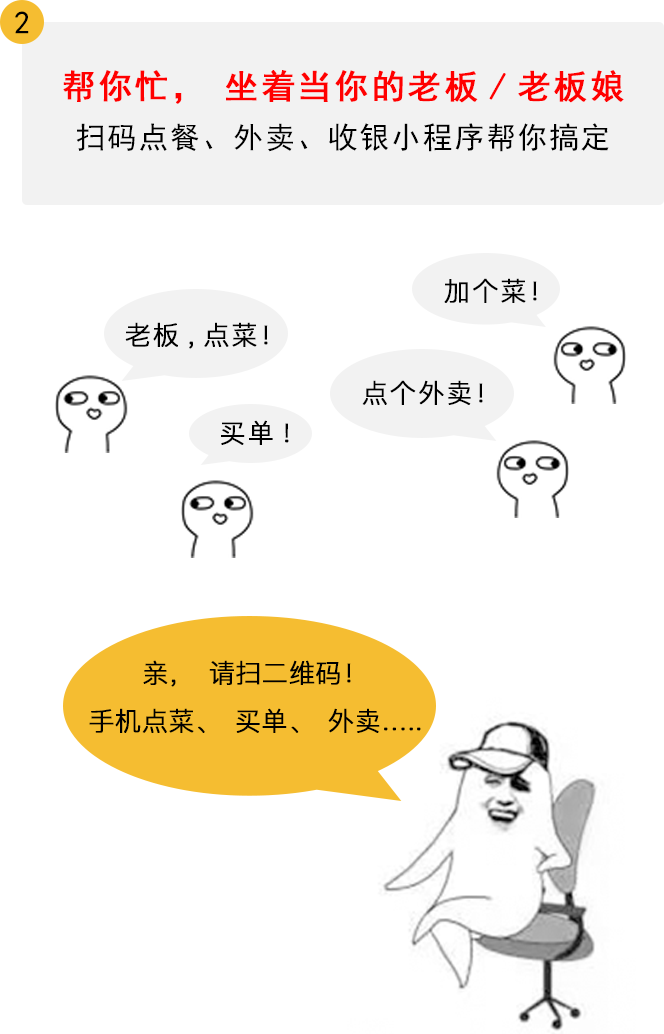
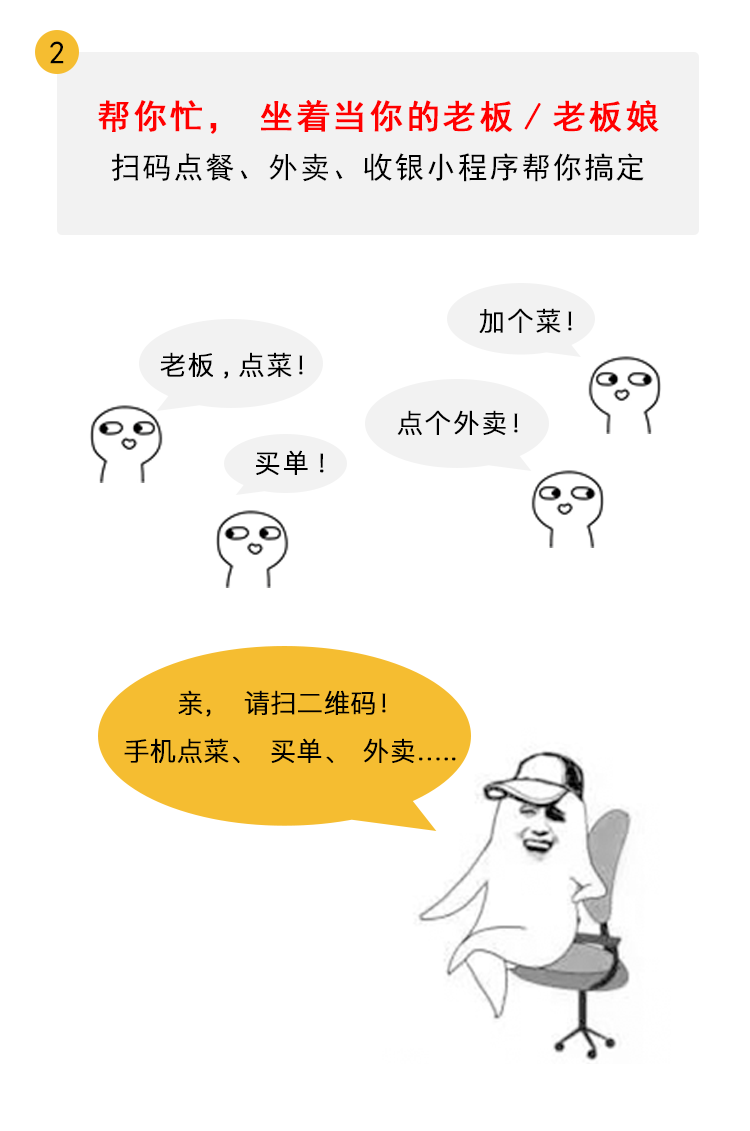
Signed-off-by: WIN-10\Administrator <350121276@qq.com>

diff --git a/index.html b/index.html
@@ -11,10 +11,13 @@
             max-width: 100%;
             height: 100%;
         }
+        .item{
+            overflow: hidden;
+        }
         .item-1 img{width: 100%;height: 95%;}
-        .item-2 img{width: 100%;height: 95%;}
+        .item-2 img{width: 100%;height: 100%;margin-top: -20px;}
         .item-3 img{width: 96%;height: 90%;padding-top: 15px;padding-left: 5px;}
-        .item-4 img{width: 96%;height: 90%;padding-top: 15px;padding-left: 5px;}
+        .item-4 img{width: 96%;height: 92%;padding-top: 15px;padding-left: 5px;}
         .item-5 img{width: 96%;height: 90%;padding-top: 15px;padding-left: 5px;}
         .item-6 img{width: 96%;height: 90%;padding-top: 10px;padding-left: 5px;}
         .item-7 img{width: 91%;height: 91%;padding-top: 10px;padding-left: 16px;}
@@ -31,6 +34,9 @@
             width: 85%;
             padding-top: 10px;
         }
+      /*  .item img{
+            padding: 0;
+        }*/
         .foot_img img{
             margin-left: 10%!important;
             width: 85%;
@@ -100,66 +106,7 @@
     getInfo();
     //    console.log(document.documentElement.clientHeight ,window.innerHeight, document.body.clientHeight)
     //    document.body.style.height=window.innerHeight-0+'px';
-    window.onload=function() {
-        var oBtn = document.getElementById('btn');
-        var tel = document.getElementById('tel');
-        var names = document.getElementById('myname');
-        var oP = document.getElementsByTagName('p')[0];
-        oBtn.onclick = function () {
-            var val = document.getElementById('tel').value;
-            var my = document.getElementById('myname').value;
-            var flag = /^[0-9a-zA-Z\u4e00-\u9fa5_]{3,16}$/;
-            var reg = /^1[345678]\d{9}$/;
-            console.log(oBtn);
-            console.log(tel.value);
-            console.log(names.value);
-            if (val == '') {
-                oP.style.color = "red";
-                oP.innerHTML = "请输入手机号!";
-            } else if (reg.test(val)) {
-                oP.style.color = "green";
-                oP.innerHTML = "输入正确！";
-            } else {
-                oP.style.color = "red";
-                oP.innerHTML = "号码输入错误，请重新输入！";
-            }
-
-            var e = {
-                'name': names.value,  //姓名
-                'phone': tel.value,  //联系电话
-
-            };
-        }
-    };
-    function loadXMLDoc(e)
-    {
-//        document.getElementById("btn").style.display="none";
-//        document.getElementById("div2").style.display="";
-        var e= e;
-//        e = (function(obj){ var str = ""; for(var prop in obj){ str += prop + "=" + obj[prop] } return str; })(e);
-        var evev=JSON.stringify(e);
-        var xmlhttp;
-        if (window.XMLHttpRequest)
-        {
-            // code for IE7+, Firefox, Chrome, Opera, Safari
-            xmlhttp=new XMLHttpRequest();
-        }
-        else
-        {// code for IE6, IE5
-            xmlhttp=new ActiveXObject("Microsoft.XMLHTTP");
-        }
-        xmlhttp.onreadystatechange=function()
-        {
-            if (xmlhttp.readyState==4 && xmlhttp.status==200)
-            {
-                console.log(xmlhttp);
-                document.getElementById("tel").innerHTML=xmlhttp.responseText;
-            }
-        };
-        xmlhttp.open("POST","https://dev.nihome.cn/cooperation/apply",true);
-        xmlhttp.setRequestHeader("Content-type","application/json");
-        xmlhttp.send(evev);
-    }
+    
 </script>
 <div class="wrap" id="wrap">
 
@@ -259,7 +206,67 @@
         }
     });
     console.info(myslider)
+    // window.onload=function() {
+      
+    // };
+    function loadXMLDoc()
+    {
+        var oBtn = document.getElementById('btn');
+        var tel = document.getElementById('tel');
+        var names = document.getElementById('myname');
+        var oP = document.getElementsByTagName('p')[0];
+        // oBtn.onclick = function () {
+            var val = document.getElementById('tel').value;
+            var my = document.getElementById('myname').value;
+            var flag = /^[0-9a-zA-Z\u4e00-\u9fa5_]{3,16}$/;
+            var reg = /^1[345678]\d{9}$/;
+            console.log(oBtn);
+            console.log(tel.value);
+            console.log(names.value);
+            if (val == '') {
+                oP.style.color = "red";
+                oP.innerHTML = "请输入手机号!";
+                return false;
+            } else if (reg.test(val)) {
+                oP.style.color = "green";
+                oP.innerHTML = "输入正确！";
+            } else {
+                oP.style.color = "red";
+                oP.innerHTML = "号码输入错误，请重新输入！";
+                return false;
+            }
 
+            var e = {
+                'name': names.value,  //姓名
+                'phone': tel.value,  //联系电话
+
+            };
+        // }
+        // var e= e;
+        var evev=JSON.stringify(e);
+        var xmlhttp;
+        if (window.XMLHttpRequest)
+        {
+            xmlhttp=new XMLHttpRequest();
+        }
+        else
+        {// code for IE6, IE5
+            xmlhttp=new ActiveXObject("Microsoft.XMLHTTP");
+        }
+        xmlhttp.onreadystatechange=function()
+        {
+            if (xmlhttp.readyState==4 && xmlhttp.status==200)
+            {
+                console.log(xmlhttp);
+                document.getElementById("tel").innerHTML=xmlhttp.responseText;
+            }
+        };
+        xmlhttp.open("POST","https://dev.nihome.cn/cooperation/apply",true);
+        xmlhttp.setRequestHeader("Content-type","application/json");
+        xmlhttp.send(evev);
+        oP.style.color = "green";
+        oP.innerHTML = "成功提交！";
+    }
 </script>
 </body>
 </html>
